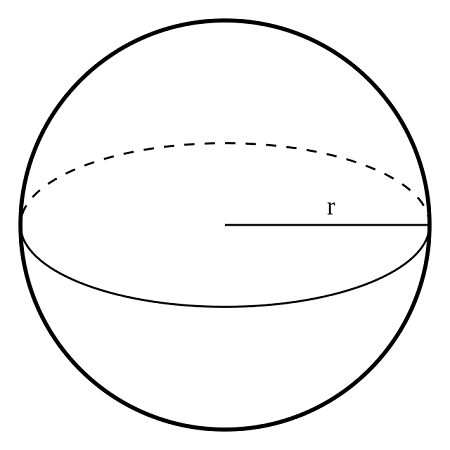
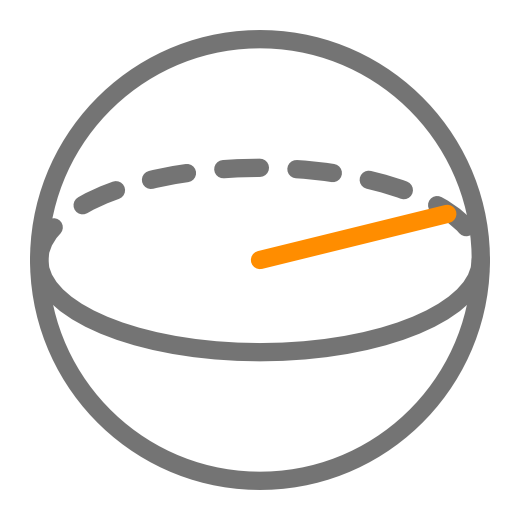
shape images

Changed region(s): [[0.0311, 0.0311, 0.9644, 0.9644]]

diff --git a/doc_src/src/css/custom.css b/doc_src/src/css/custom.css
@@ -29,3 +29,23 @@
   --ifm-color-primary-lightest: #dfb1eb;
   --docusaurus-highlighted-code-line-bg: rgba(0, 0, 0, 0.3);
 }
+
+.axis-x {
+  color:#DF5252
+}
+
+.axis-y {
+  color:#67E06D
+}
+
+.axis-z {
+  color:#6897E1
+}
+
+.attr-radius {
+  color:#FF8D00
+}
+
+.attr-length {
+  color:#CE4AFF
+}
